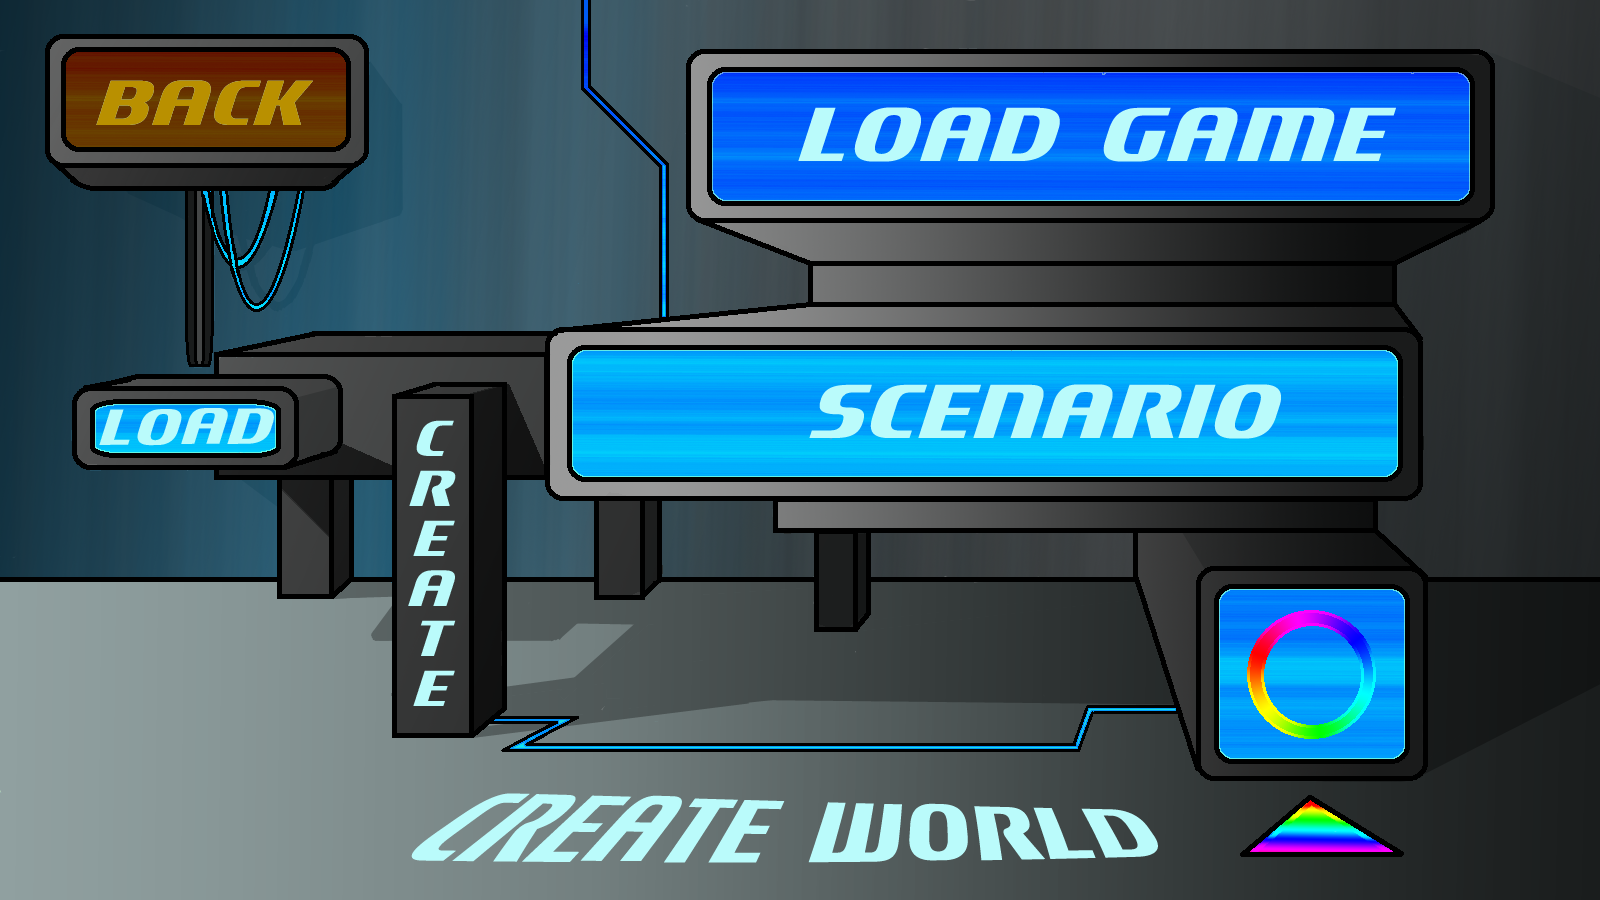
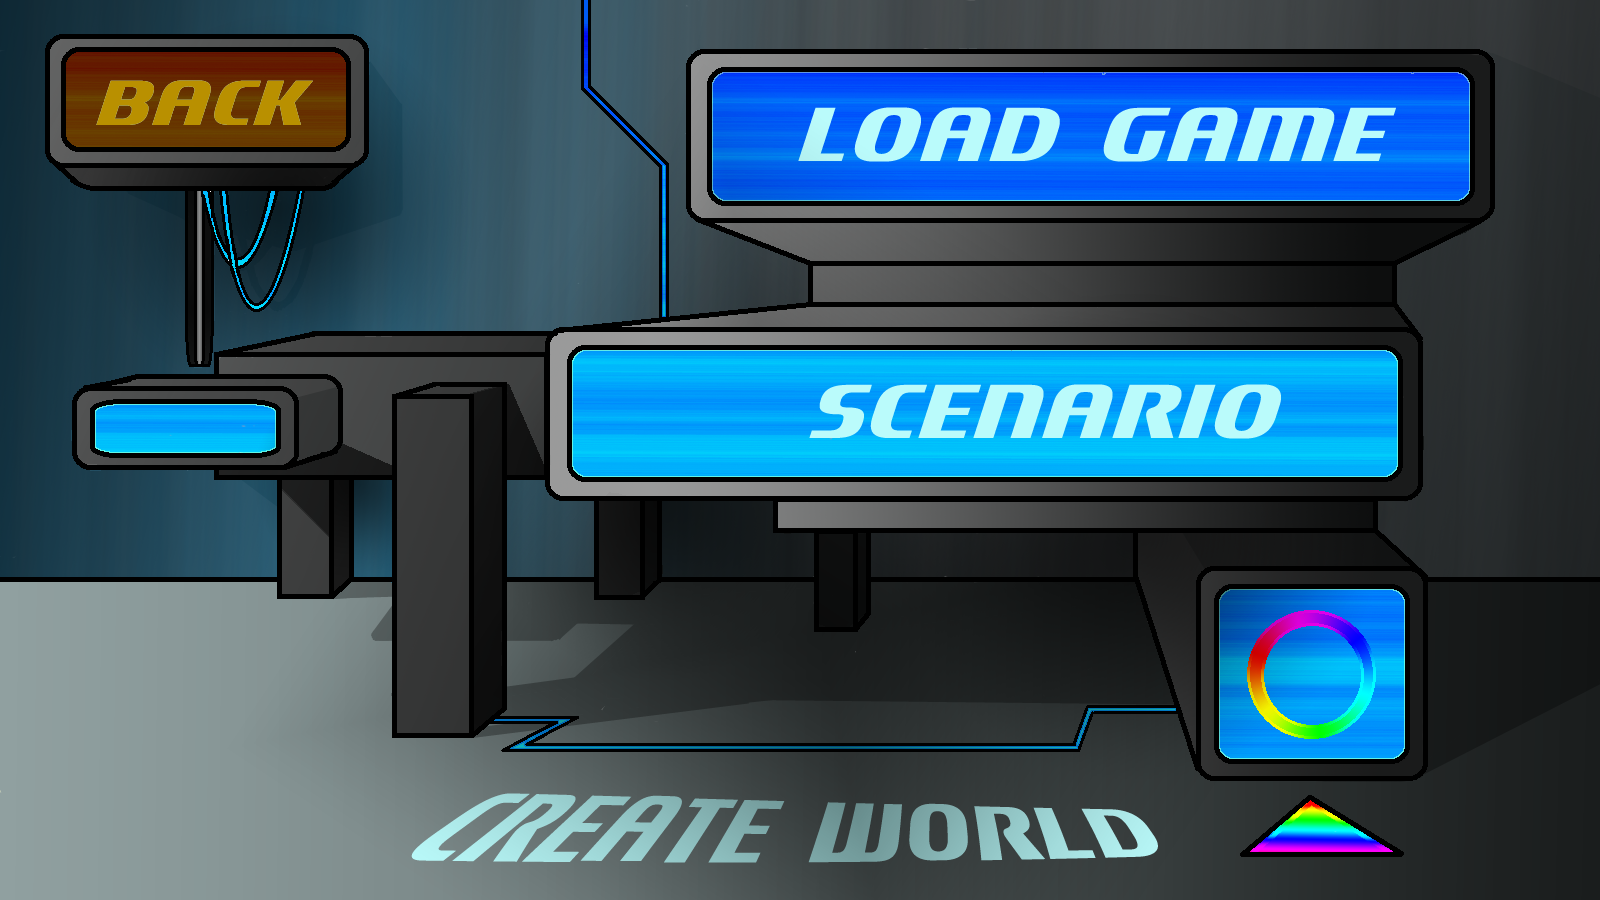
Update of GUI

diff --git a/SkyLands/src/main/resources/Media/web/options.html b/SkyLands/src/main/resources/Media/web/options.html
@@ -5,57 +5,85 @@
   <script>
 
   function isInRectangle(x1, y1, x2, y2, posX, posY) { return posX > x1 && posX < x2 && posY > y1 && posY < y2; }
-  var ratioX, ratioY = 1;
+  var ratioX = 1, ratioY = 1;
 
     $(window).load(function() {
-      ratioX = parseInt($('#map').css('width')) / 1600;
-      ratioY = parseInt($('#map').css('height')) / 900;
-      $(document).mousemove(function(e) {
-        if(isInRectangle(62 * ratioX, 48 * ratioY, 350 * ratioX, 150 * ratioY, e.pageX, e.pageY)){
-          $("body").css('cursor', 'pointer');
+      $(window).mousemove(function(e) {
+
+        if(isInRectangle(1448 * ratioX, 398 * ratioY, 1597 * ratioX, 841 * ratioY, e.pageX, e.pageY)){ //back
+          $("#back").css("display", "block");
+        } else if(isInRectangle(1277 * ratioX, 77 * ratioY, 1393 * ratioX, 431 * ratioY, e.pageX, e.pageY)){ //Music
+          $("#Music").css("display", "block");
+        } else if(isInRectangle(610 * ratioX, 295 * ratioY, 1110 * ratioX, 396 * ratioY, e.pageX, e.pageY)){ //Quality
+          $("#Quality").css("display", "block");
+        } else if(isInRectangle(564 * ratioX, 491 * ratioY, 920 * ratioX, 636 * ratioY, e.pageX, e.pageY)){ //VSync
+          $("#Vsync").css("display", "block");
+        } else {
+          $("#Vsync").css("display", "none");
+          $("#Quality").css("display", "none");
+          $("#Music").css("display", "none");
+          $("#back").css("display", "none");
         }
-        else if(isInRectangle(95 * ratioX, 405 * ratioY, 275 * ratioX, 450 * ratioY, e.pageX, e.pageY)){
-          $("body").css('cursor', 'pointer');
-        }
-        else if(isInRectangle(710 * ratioX, 70 * ratioY, 1470 * ratioX, 200 * ratioY, e.pageX, e.pageY)){
-          $("body").css('cursor', 'pointer');
-        }
-        else if(isInRectangle(570 * ratioX, 350 * ratioY, 1400 * ratioX, 475 * ratioY, e.pageX, e.pageY)){
-          $("body").css('cursor', 'pointer');
-        }
-        else if(isInRectangle(400 * ratioX, 400 * ratioY, 470 * ratioX, 730 * ratioY, e.pageX, e.pageY)){
-          $("body").css('cursor', 'pointer');
-        }
-        else if(isInRectangle(1220 * ratioX, 600 * ratioY, 1400 * ratioX, 760 * ratioY, e.pageX, e.pageY)){
-          $("body").css('cursor', 'pointer');
-        }
-        else
-          $('body').css('cursor', 'default')
       });
+
+      $(window).click(function(e) {
+
+        if(isInRectangle(1448 * ratioX, 398 * ratioY, 1597 * ratioX, 841 * ratioY, e.pageX, e.pageY)){ //back
+          OptionObject.back();
+        } else if(isInRectangle(1277 * ratioX, 77 * ratioY, 1393 * ratioX, 431 * ratioY, e.pageX, e.pageY)){ //Music
+          if($("#MOn").css("display") == "none") {
+            $("#MOn").css("display", "block");
+            $("#MOff").css("display", "none");
+            OptionObject.Music("on");
+          } else {
+            $("#MOn").css("display", "none");
+            $("#MOff").css("display", "block");
+            OptionObject.Music("off");
+          }
+
+        } else if(isInRectangle(610 * ratioX, 295 * ratioY, 1110 * ratioX, 396 * ratioY, e.pageX, e.pageY)){ //Quality
+          if($("#HQ").css("display") == "none") {
+            $("#HQ").css("display", "block");
+            $("#LQ").css("display", "none");
+            OptionObject.Quality("HQ");
+          } else {
+            $("#HQ").css("display", "none");
+            $("#LQ").css("display", "block");
+            OptionObject.Quality("LQ");
+          }
+        } else if(isInRectangle(564 * ratioX, 491 * ratioY, 920 * ratioX, 636 * ratioY, e.pageX, e.pageY)){ //VSync
+          if($("#Voff").css("display") == "none") {
+            $("#Voff").css("display", "block");
+            $("#Von").css("display", "none");
+            OptionObject.VSync("off");
+          } else {
+            $("#Voff").css("display", "none");
+            $("#Von").css("display", "block");
+            OptionObject.VSync("on");
+          }
+        }
+      });
+
+      //1520 506
     });
-
-
-    function BackDisplay(disp) {
-      $("")
-    }    
-
-
 
 
   </script>
 </head>
 <body>
-  <p id="pos" style="color : green;"></p>
-	<img src="../images/Options/Back.png" id="back" />
-  <img src="../images/Options/High_Quality.png" id="HQ" />
-  <img src="../images/Options/Low_Quality.png" id="LQ" />
-  <img src="../images/Options/Music.png" id="Music" />
-  <img src="../images/Options/Music_Off.png" id="MOff" />
-  <img src="../images/Options/Music_On.png" id="MOn" />
-  <img src="../images/Options/Quality.png" id="Quality" />
-  <img src="../images/Options/Vsync.png" id="Vsync" />
-  <img src="../images/Options/VSYNC_Off.png" id="Voff" />
-  <img src="../images/Options/VSYNC_On.png" id="Von" />
+  
+    <img src="../images/Options/Menu_Options_normal.png" id="background" style="position:absolute; top : 0px; left: 0px;" />
+
+	<img src="../images/Options/Back.png"         id="back"    style="position:absolute; top : 398px; left: 1448px; display:none;" />
+  <img src="../images/Options/Music.png"        id="Music"   style="position:absolute; top : 77px;  left: 1277px; display:none;" />
+  <img src="../images/Options/Quality.png"      id="Quality" style="position:absolute; top : 295px; left: 610px;  display:none;" />
+  <img src="../images/Options/Vsync.png"        id="Vsync"   style="position:absolute; top : 491px; left: 564;    display:none;" />
+  <img src="../images/Options/High_Quality.png" id="HQ"      style="position:absolute; top : 150px; left: 32px;" />
+  <img src="../images/Options/Music_On.png"     id="MOn"     style="position:absolute; top : 77px; left: 1412px;" />
+  <img src="../images/Options/VSYNC_Off.png"    id="Voff"    style="position:absolute; top : 496px; left: 942px;"  />
+  <img src="../images/Options/Music_Off.png"    id="MOff"    style="position:absolute; top : 201px;  left: 1412px; display:none;" />
+  <img src="../images/Options/VSYNC_On.png"     id="Von"     style="position:absolute; top : 494px; left: 309px;  display:none;" />
+  <img src="../images/Options/Low_Quality.png"  id="LQ"      style="position:absolute; top : 342px; left: 38px;   display:none;" />
 
 </body>
 </html>

diff --git a/SkyLands/src/main/resources/Media/web/play.html b/SkyLands/src/main/resources/Media/web/play.html
@@ -17,25 +17,20 @@
           $('img').css('display', 'none');
           $('img:eq(0)').css('display', 'block');
         }
-        else if(isInRectangle(95 * ratioX, 405 * ratioY, 275 * ratioX, 450 * ratioY, e.pageX, e.pageY)){ //load
-          $("body").css('cursor', 'pointer');
-          $('img').css('display', 'none');
-          $('img:eq(1)').css('display', 'block');
-        }
         else if(isInRectangle(710 * ratioX, 70 * ratioY, 1470 * ratioX, 200 * ratioY, e.pageX, e.pageY)){ //load game
           $("body").css('cursor', 'pointer');
           $('img').css('display', 'none');
           $('img:eq(2)').css('display', 'block');
         }
-        else if(isInRectangle(400 * ratioX, 400 * ratioY, 470 * ratioX, 730 * ratioY, e.pageX, e.pageY)){ //Create
+        else if(isInRectangle(1220 * ratioX, 600 * ratioY, 1400 * ratioX, 760 * ratioY, e.pageX, e.pageY)){ // create world
           $("body").css('cursor', 'pointer');
           $('img').css('display', 'none');
           $('img:eq(3)').css('display', 'block');
         }
-        else if(isInRectangle(1220 * ratioX, 600 * ratioY, 1400 * ratioX, 760 * ratioY, e.pageX, e.pageY)){ // create world
+        else if(isInRectangle(567 * ratioX, 345 * ratioY, 1402 * ratioX, 481 * ratioY, e.pageX, e.pageY)){ // scenario
           $("body").css('cursor', 'pointer');
           $('img').css('display', 'none');
-          $('img:eq(4)').css('display', 'block');
+          $('img:eq(1)').css('display', 'block');
         }
         else{
           $('body').css('cursor', 'default')
@@ -48,36 +43,21 @@
         if(isInRectangle(62 * ratioX, 48 * ratioY, 350 * ratioX, 150 * ratioY, e.pageX, e.pageY)){ //back
           PlayMenuJSObject.back();
         }
-        else if(isInRectangle(95 * ratioX, 405 * ratioY, 275 * ratioX, 450 * ratioY, e.pageX, e.pageY)){ //load
-          $("body").css('cursor', 'pointer');
-          $('img').css('display', 'none');
-          $('img:eq(1)').css('display', 'block');
-        }
         else if(isInRectangle(710 * ratioX, 70 * ratioY, 1470 * ratioX, 200 * ratioY, e.pageX, e.pageY)){ //load game
-          $("body").css('cursor', 'pointer');
-          $('img').css('display', 'none');
-          $('img:eq(2)').css('display', 'block');
-        }
-        else if(isInRectangle(400 * ratioX, 400 * ratioY, 470 * ratioX, 730 * ratioY, e.pageX, e.pageY)){ //Create
-          $("body").css('cursor', 'pointer');
-          $('img').css('display', 'none');
-          $('img:eq(3)').css('display', 'block');
+          PlayMenuJSObject.load();
         }
         else if(isInRectangle(1220 * ratioX, 600 * ratioY, 1400 * ratioX, 760 * ratioY, e.pageX, e.pageY)){ // create world
-          PlayMenuJSObject.play(); 
+          PlayMenuJSObject.play();
         }
-        else{
-          $('body').css('cursor', 'default')
-          $("img").css('display' , 'none'); 
-          $('#map').css('display', 'block');
+        else if(isInRectangle(567 * ratioX, 345 * ratioY, 1402 * ratioX, 481 * ratioY, e.pageX, e.pageY)){ // scenario
+          PlayMenuJSObject.scenario();
         }
       });
+      $(window).resize(function() {
+        ratioX = parseInt($('#map').css('width')) / 1600;
+        ratioY = parseInt($('#map').css('height')) / 900;
+      });
 
-    });
-
-    $(window).resize(function() {
-      ratioX = parseInt($('#map').css('width')) / 1600;
-      ratioY = parseInt($('#map').css('height')) / 900;
     });
     
   </script>
@@ -85,9 +65,8 @@
 <body oncontextmenu="return false;">
   <p id="pos" style="color : white;"></p>
   <img src="../images/Play/menu play_Back.png"          id="img" style="height: 100%; width: 100%; display:none;"/>
-  <img src="../images/Play/menu play_Load_scenar.png"   id="img" style="height: 100%; width: 100%; display:none;"/>
+  <img src="../images/Play/menu play_scenar.png"        id="img" style="height: 100%; width: 100%; display:none;"/>
   <img src="../images/Play/menu play_Load_game.png"     id="img" style="height: 100%; width: 100%; display:none;"/>
-  <img src="../images/Play/menu play_Create_scenar.png" id="img" style="height: 100%; width: 100%; display:none;"/>
   <img src="../images/Play/menu play_Create_World.png"  id="img" style="height: 100%; width: 100%; display:none;"/>
 	<img src="../images/Play/menu play_normal.png"        id="map" style="height: 100%; width: 100%;"/>
 </body>

diff --git a/SkyLands/src/main/resources/Media/web/ScenarioEditorChooseScenario.html b/SkyLands/src/main/resources/Media/web/ScenarioEditorChooseScenario.html
@@ -4,11 +4,7 @@
 	<script type="text/javascript" src="jquery.js"> </script>
 	<script>
 		$(function() {
-			$(".clickable").click(function() {
-				$(".clickable").removeClass("selected");
-				$(this).addClass("selected")
-			});
-
+			
 		});
 
 		function addScenario(name) {
@@ -19,7 +15,10 @@
 </head>
 <body>
 	<div id="Scenarios">
-		<img src="../images/Load_scenario_normal.png" id="background"/>
+		<img src="../images/ScenarioLoader/Load_scenario_normal.png" id="background"/>
+		<img src="../images/ScenarioLoader/Edit.png" id="edit" style="display : none;" />
+		<img src="../images/ScenarioLoader/New.png"  id="new"  style="display : none;" />
+		<img src="../images/ScenarioLoader/Ok.png"   id="ok"   style="display : none;"/>
 		<table id="text">
 			<tr><td><span class="clickable">Default</span></td></tr>
 			<tr><td><span class="clickable">Test 2</span></td></tr>

diff --git a/SkyLands/src/main/resources/Media/web/builder.html b/SkyLands/src/main/resources/Media/web/builder.html
@@ -135,7 +135,6 @@
 							SelectedPos = 40 + row * 5 + col;
 
 							Selected = $(".slot:eq(" + (SelectedPos) + ")");
-							Selected.css("opacity", "0.5");
 						}
 					},
 					stop: function(e, ui) {
@@ -205,7 +204,13 @@
 							}
 						}
 
-						if((SelectedPos >= 30 && SelectedPos < 40) || (Position >= 30 && Position <= 40)) {
+						if(SelectedPos >= 30 && SelectedPos < 40) {
+							if(typeof(BuilderObject) != "undefined") {
+								BuilderObject.selectBarUpdate(SelectedPos, Selected.children("img").attr("src"), Selected.children("span").html());
+							}
+						}
+
+						if(Position >= 30 && Position < 40) {
 							if(typeof(BuilderObject) != "undefined") {
 								BuilderObject.selectBarUpdate(SelectedPos, Selected.children("img").attr("src"), Selected.children("span").html());
 							}

diff --git a/SkyLands/src/main/csharp/Main/GUIs/ScenarioLoader.cs b/SkyLands/src/main/csharp/Main/GUIs/ScenarioLoader.cs
@@ -8,17 +8,17 @@ using System.Windows.Forms;
 using Game.BaseApp;
 
 namespace Game.GUIs {
-    public class PlayMenu : GUI {
+    public class ScenarioLoader : GUI {
         private readonly StateManager mStateMgr;
 
-        public PlayMenu(StateManager stateMgr)
+        public ScenarioLoader(StateManager stateMgr)
             : base(new Vector2(0, 0), new Vector2(404, 404), "play.html", DockStyle.Fill) {
             this.mStateMgr = stateMgr;
         }
 
         public override void onDocumentReady(object sender, UrlEventArgs e) {
             base.onDocumentReady(sender, e);
-            JSObject j = OgreForm.webView.CreateGlobalJavascriptObject("PlayMenuJSObject");
+            JSObject j = OgreForm.webView.CreateGlobalJavascriptObject("ScenarioLoaderObject");
             j.Bind("back", false, HideAndPlay);
             j.Bind("play", false, (s, args) => this.mStateMgr.RequestStatePush(typeof(GameState)));
             j.Bind("load", false, Load);
